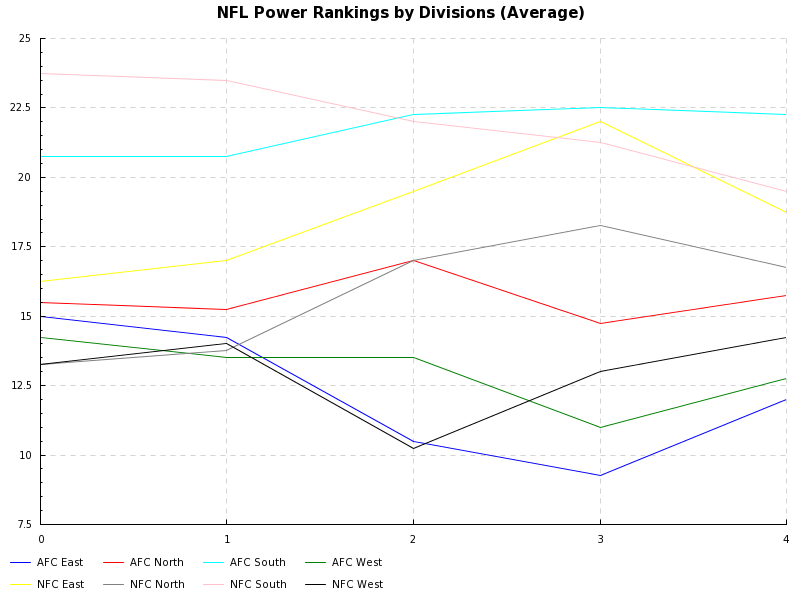
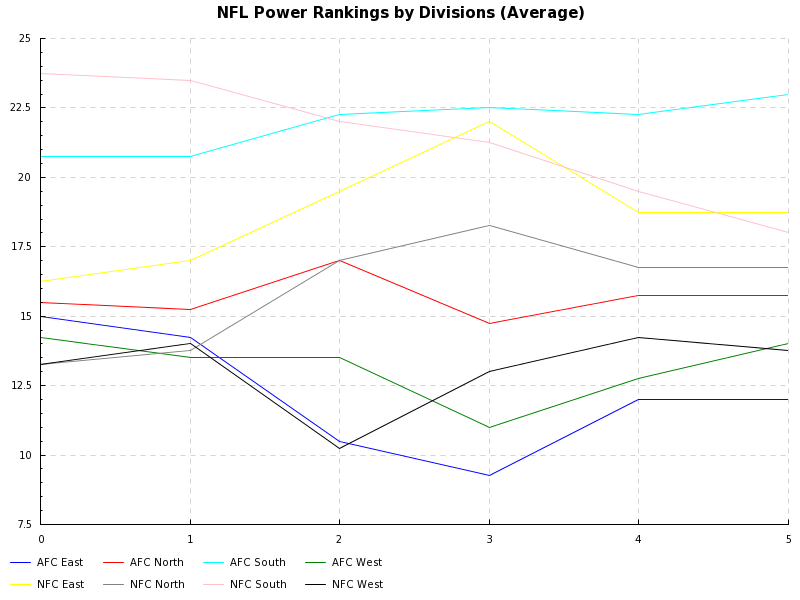
Week 5.

diff --git a/README.md b/README.md
@@ -1,5 +1,20 @@
 ![average](https://github.com/mfine/nfl-divisions-power-rankings/blob/master/RESULTS-average.png)
 ![std dev](https://github.com/mfine/nfl-divisions-power-rankings/blob/master/RESULTS-std-dev.png)
+### Week-5
+
+```
+Division         Mean    Std Dev
+--------         ----    -------
+AFC East        12.00       9.19
+NFC West        13.75       9.07
+AFC West        14.00       5.87
+AFC North       15.75       8.70
+NFC North       16.75      11.58
+NFC South       18.00      12.10
+NFC East        18.75       2.59
+AFC South       23.00       5.79
+```
+
 ### Week-4
 
 ```
